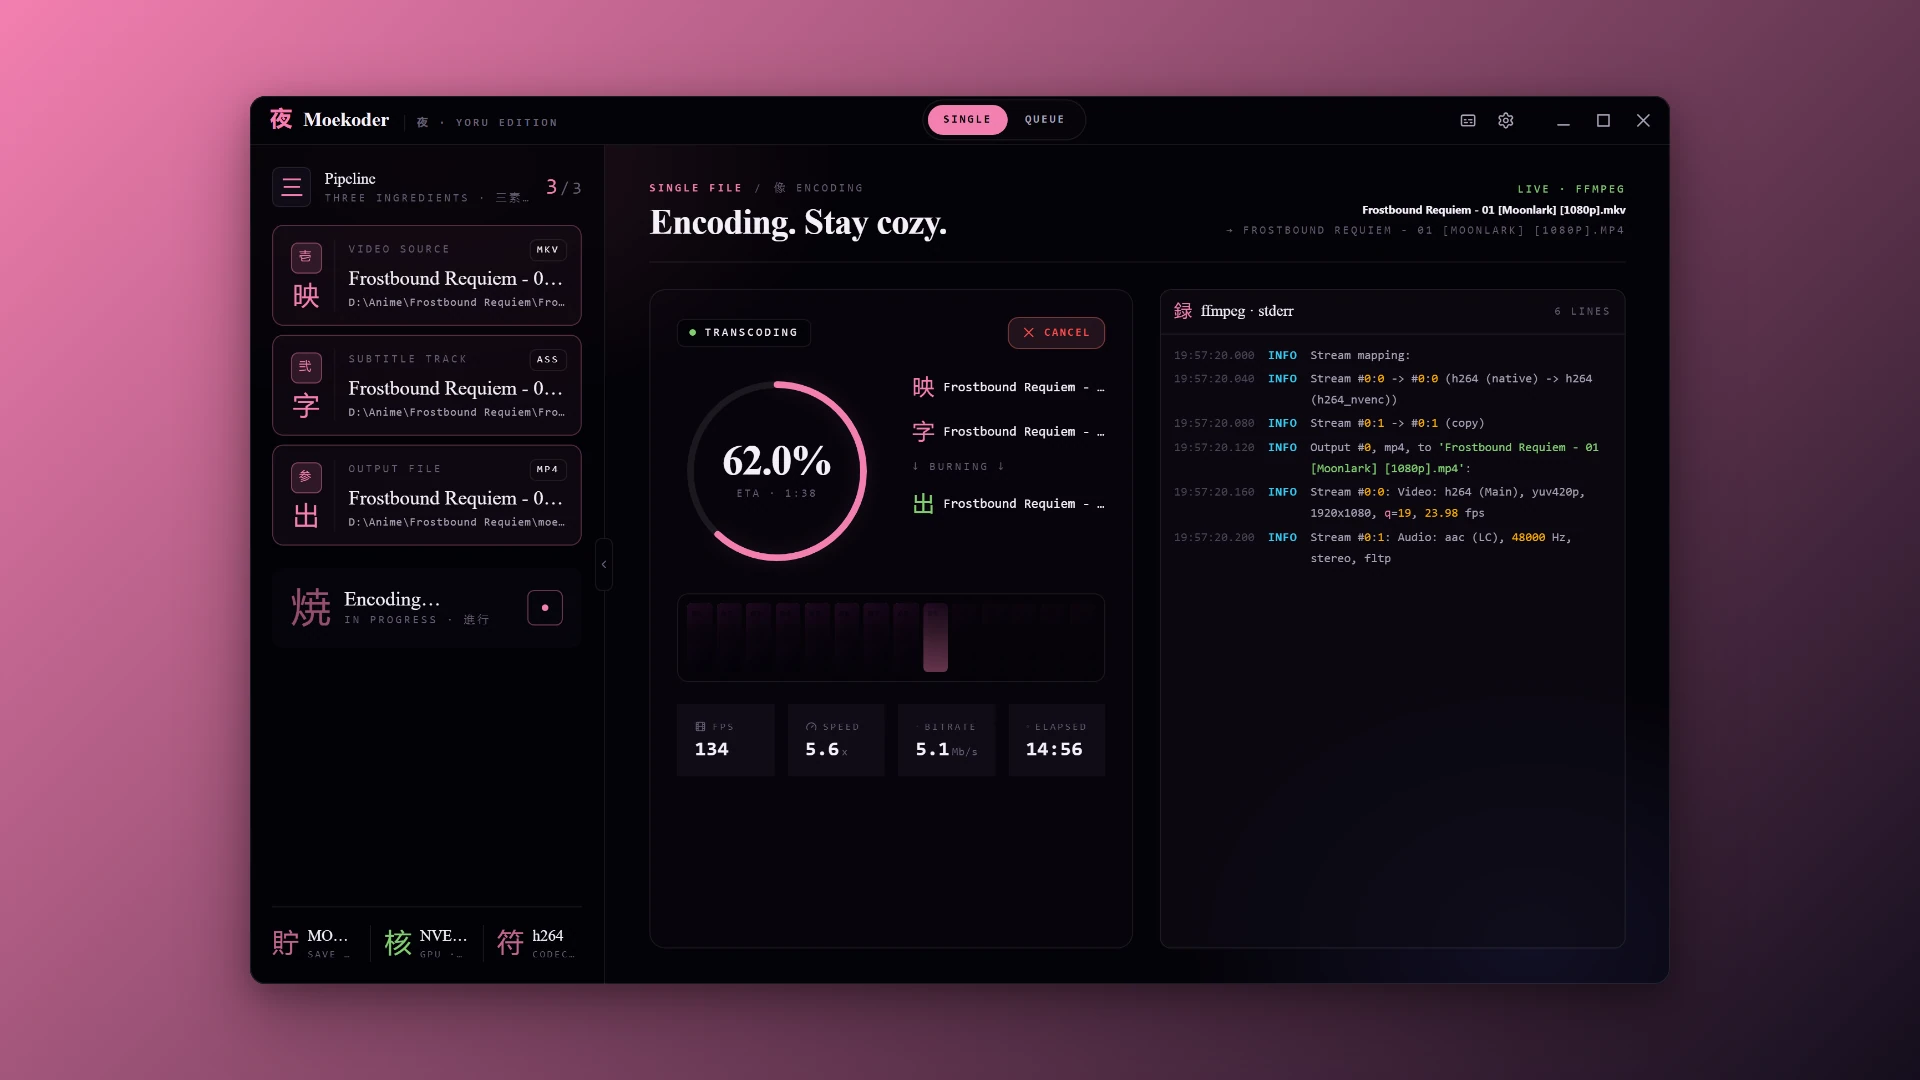
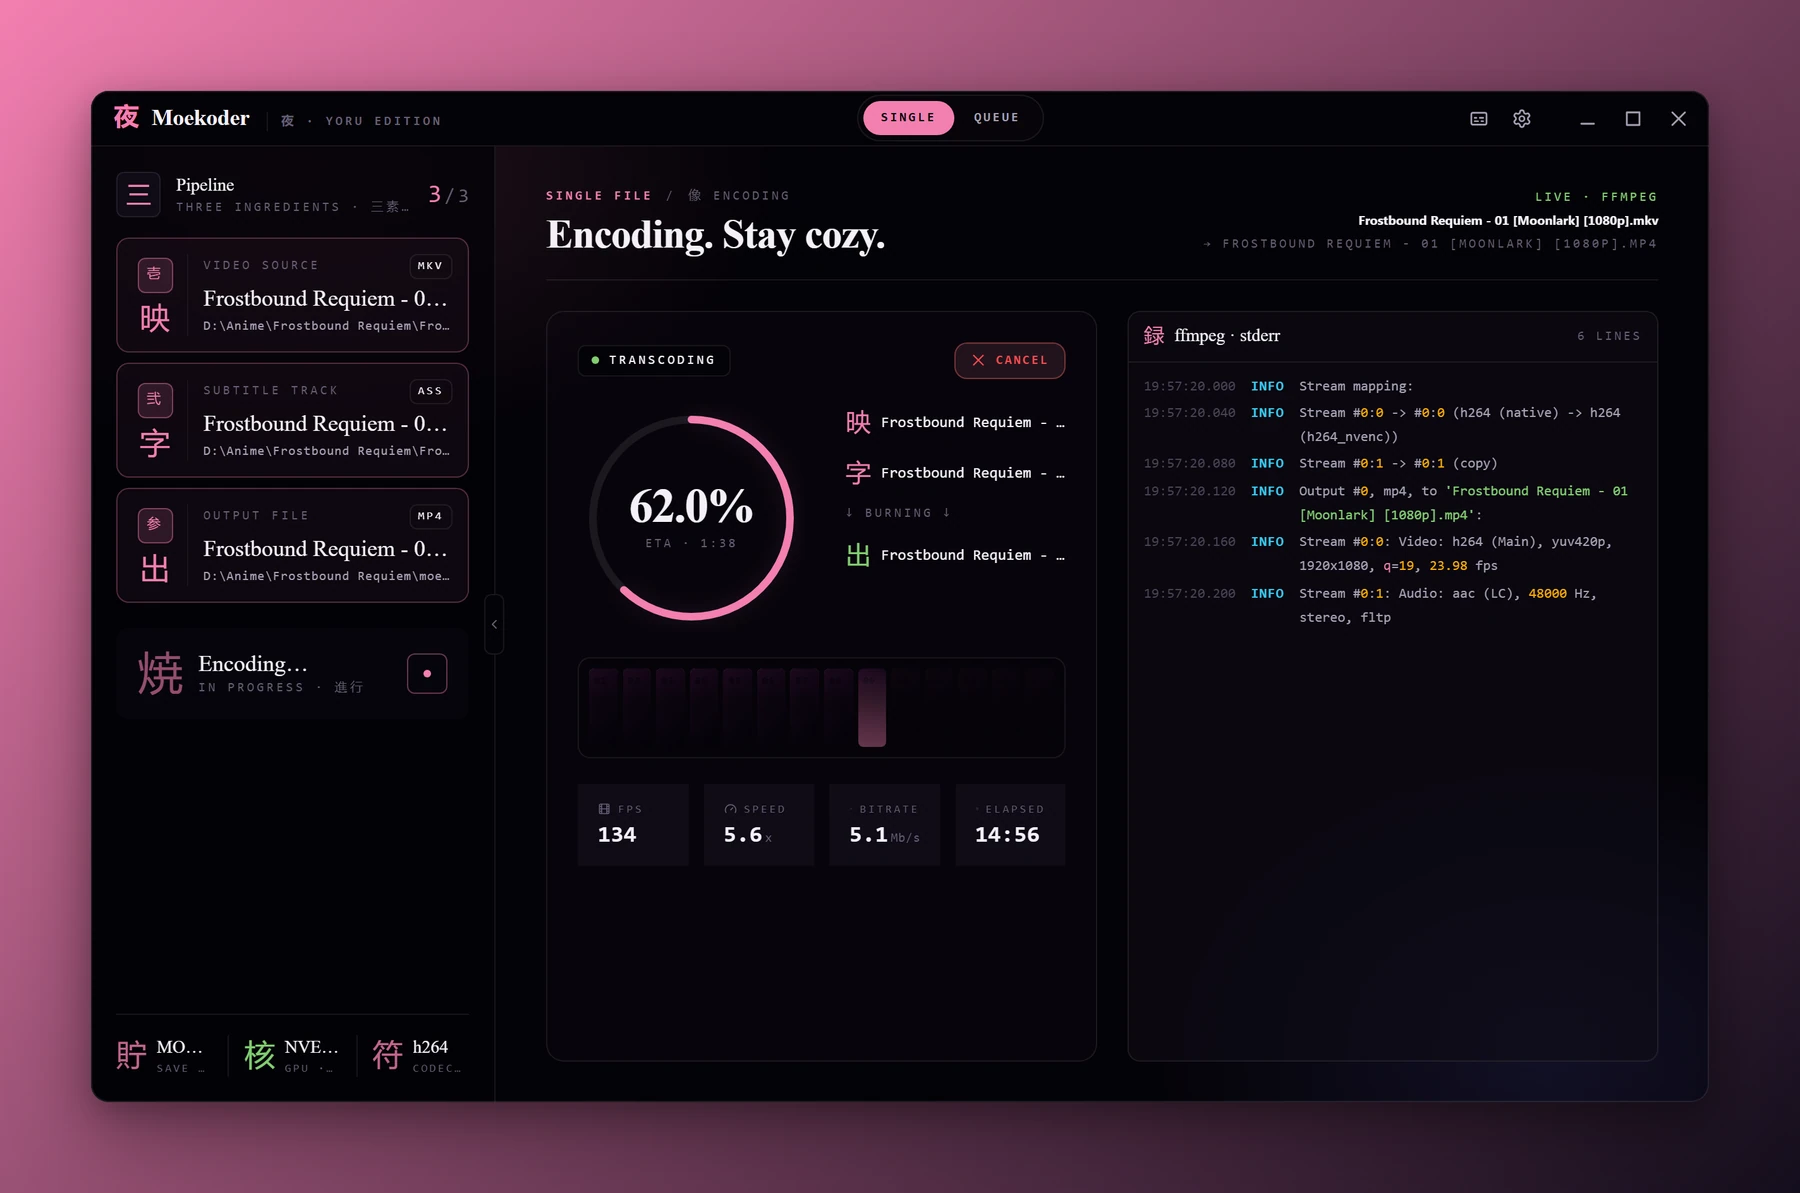
feat(projects): refresh the rumi and moekoder showcase screenshots
Rumi gets its gallery and hero from the new showcase captures, and Moekoder's gallery moves to the newer idle and encoding shots. The PNGs they replace are removed.

diff --git a/src/data/projects/rumi.ts b/src/data/projects/rumi.ts
@@ -11,8 +11,56 @@ export const rumi: Project = {
     'It lists apps, services and databases with their health, filters them as you type, and runs start, stop, restart and deploy behind a confirm prompt. It tails runtime and build logs, follows a deploy you just triggered, inspects and edits environment variables (masked by default), and switches between Coolify instances using the same config file as the official CLI.',
     'Rumi is written in TypeScript with React on OpenTUI and runs on Bun, compiled to a single binary for macOS, Linux and Windows, and it can update itself. It is early and still has rough edges.',
   ],
+  image: '/projects/rumi/hero.webp',
   projectType: 'cli',
-  gallery: [],
+  gallery: [
+    {
+      src: '/projects/rumi/resources.webp',
+      alt: 'Rumi resource list with a detail panel',
+      caption: 'Apps, services and databases with live health and details',
+    },
+    {
+      src: '/projects/rumi/deploy-logs.webp',
+      alt: 'Rumi deploy log panel for an app',
+      caption:
+        'Following a deploy from the first build step to the new container',
+    },
+    {
+      src: '/projects/rumi/runtime-logs.webp',
+      alt: 'Rumi runtime log tail for an app',
+      caption: 'Runtime logs tailed live, with warnings and errors colored',
+    },
+    {
+      src: '/projects/rumi/config-env.webp',
+      alt: 'Rumi config and environment variable inspector',
+      caption: 'Env vars masked by default, plus the build and runtime config',
+    },
+    {
+      src: '/projects/rumi/nav-demo.webp',
+      alt: 'Rumi keyboard navigation demo',
+      caption: 'Moving through resources, logs and views from the keyboard',
+    },
+    {
+      src: '/projects/rumi/confirm-restart.webp',
+      alt: 'Rumi restart confirmation prompt',
+      caption: 'Start, stop, restart and deploy always ask first',
+    },
+    {
+      src: '/projects/rumi/context-switch.webp',
+      alt: 'Rumi context switcher',
+      caption: 'Switching between Coolify instances, like prod and staging',
+    },
+    {
+      src: '/projects/rumi/servers.webp',
+      alt: 'Rumi servers view',
+      caption: 'Servers with their IPs and reachability',
+    },
+    {
+      src: '/projects/rumi/help.webp',
+      alt: 'Rumi keybinding help overlay',
+      caption: 'Every keybinding one ? away',
+    },
+  ],
   technologies: ['TypeScript', 'Bun', 'React', 'OpenTUI'],
   features: [
     'Live list of apps, services and databases with health status and filtering',

diff --git a/src/data/projects/moekoder.ts b/src/data/projects/moekoder.ts
@@ -15,12 +15,12 @@ export const moekoder: Project = {
   projectType: 'desktop',
   gallery: [
     {
-      src: '/projects/moekoder/preview.png',
+      src: '/projects/moekoder/idle.webp',
       alt: 'Moekoder home screen, idle',
       caption: 'Home screen: drop an MKV, point at an ASS, pick a target',
     },
     {
-      src: '/projects/moekoder/encoding.png',
+      src: '/projects/moekoder/encoding.webp',
       alt: 'Moekoder active encoding view',
       caption: 'Live encode UI: progress ring, filmstrip, fps, speed and ETA',
     },
